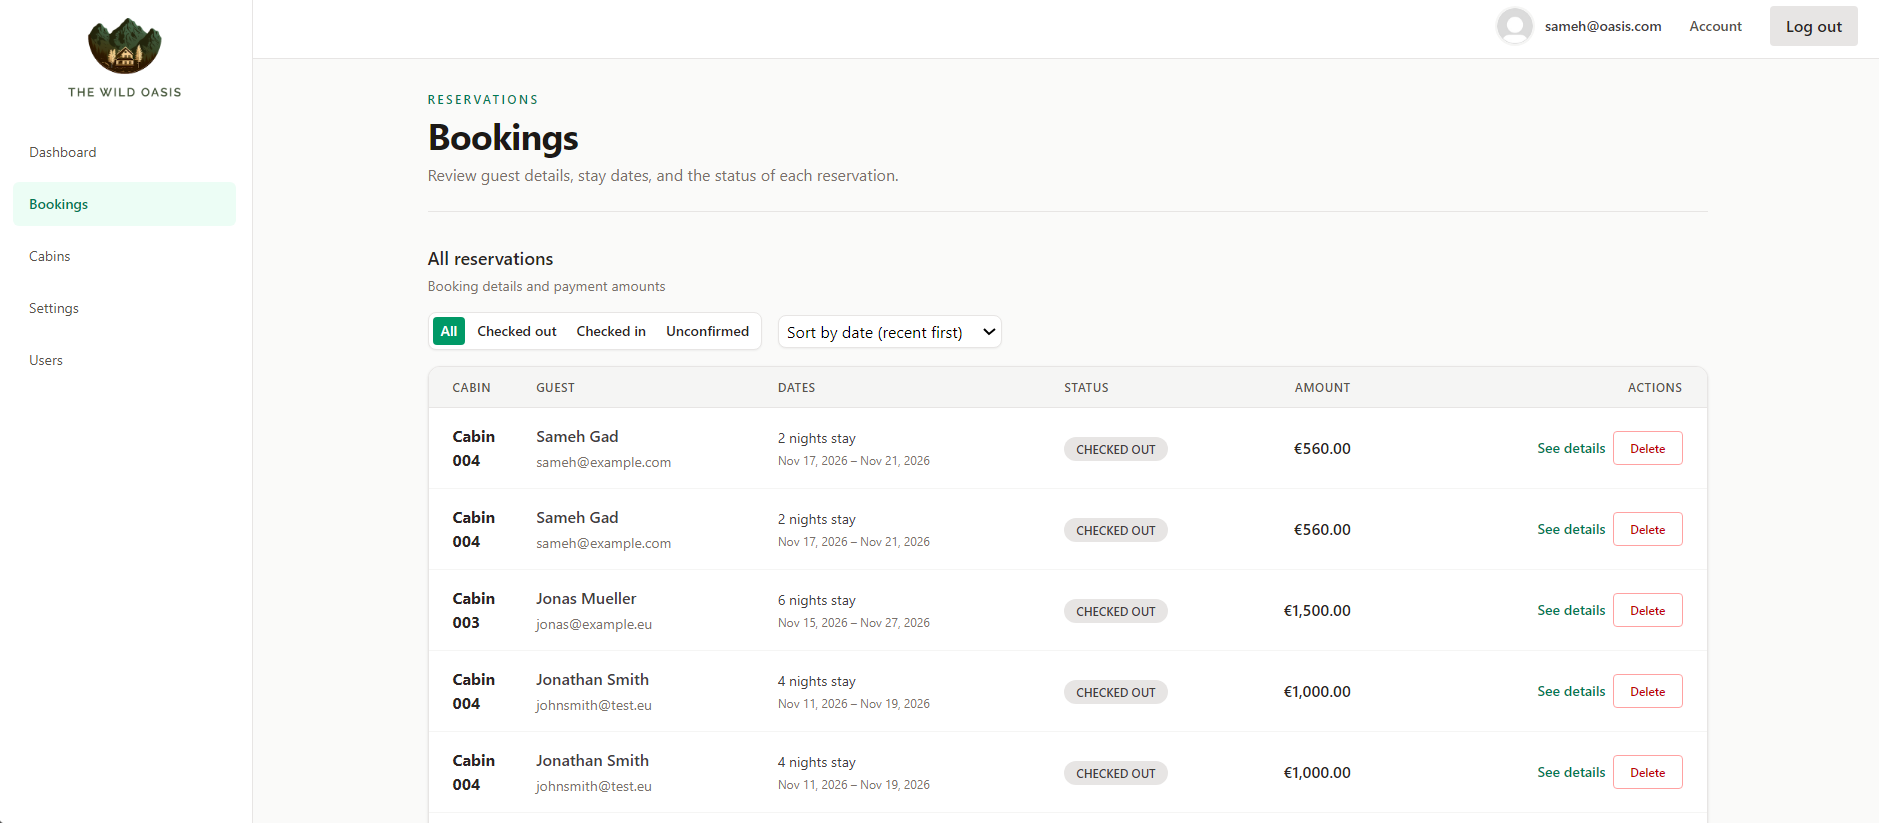
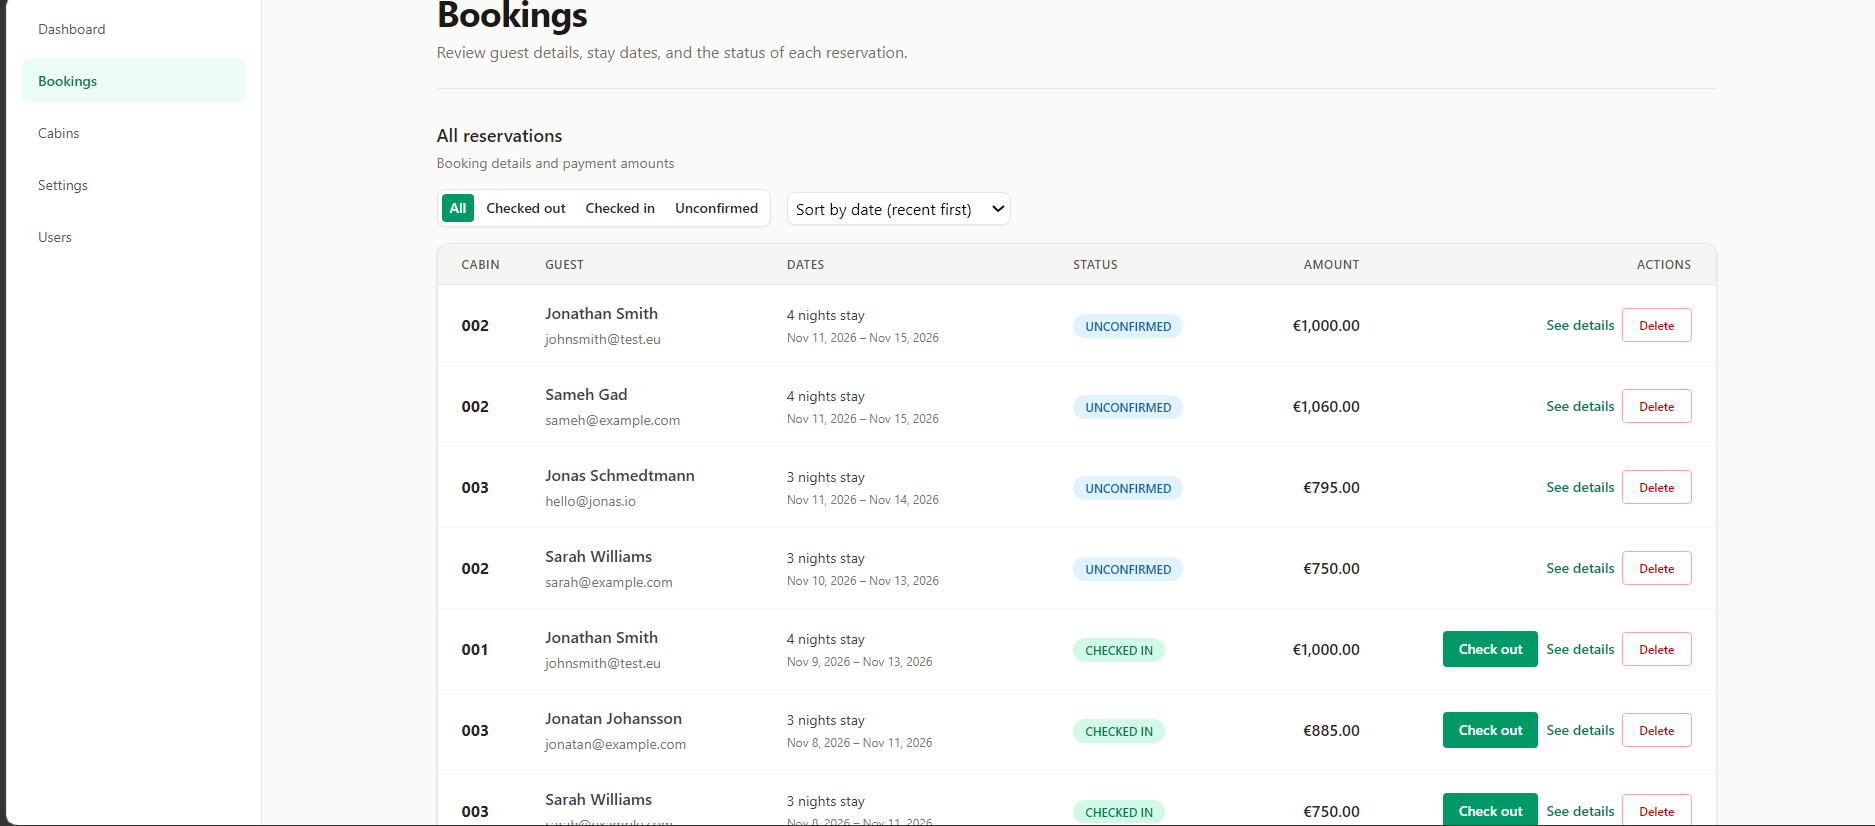
fix: align dashboard local date boundaries and update README

diff --git a/src/features/dashboard/SalesChart.jsx b/src/features/dashboard/SalesChart.jsx
@@ -10,17 +10,27 @@ import {
 } from "recharts";
 import { formatCurrency } from "../../utils/formatCurrency";
 
+function getDateKey(value) {
+    const date = new Date(value);
+
+    if (Number.isNaN(date.getTime())) {
+        return "";
+    }
+
+    return date.toLocaleDateString("en-CA");
+}
+
 export function SalesChart({ bookings = [], numDays, referenceTime }) {
     const data = useMemo(
         () =>
             Array.from({ length: numDays }, (_, i) => {
                 const date = new Date(referenceTime);
+                date.setHours(0, 0, 0, 0);
                 date.setDate(date.getDate() - (numDays - 1 - i));
 
+                const dateKey = getDateKey(date);
                 const sameDayBookings = bookings.filter(
-                    (b) =>
-                        new Date(b.created_at).toDateString() ===
-                        date.toDateString(),
+                    (b) => getDateKey(b.created_at) === dateKey,
                 );
 
                 return {

diff --git a/src/utils/formatDate.js b/src/utils/formatDate.js
@@ -1,5 +1,24 @@
 export function formatDate(date) {
-    return new Date(date).toLocaleDateString("en-US", {
+    if (date === null || date === undefined || date === "") {
+        return "—";
+    }
+
+    if (typeof date === "string" && /^\d{4}-\d{2}-\d{2}$/.test(date)) {
+        const [year, month, day] = date.split("-").map(Number);
+        return new Date(year, month - 1, day).toLocaleDateString("en-US", {
+            day: "numeric",
+            month: "short",
+            year: "numeric",
+        });
+    }
+
+    const parsedDate = new Date(date);
+
+    if (Number.isNaN(parsedDate.getTime())) {
+        return "—";
+    }
+
+    return parsedDate.toLocaleDateString("en-US", {
         day: "numeric",
         month: "short",
         year: "numeric",

diff --git a/src/features/dashboard/useRecentBookings.js b/src/features/dashboard/useRecentBookings.js
@@ -14,12 +14,14 @@ export function useRecentBookings() {
     } = useQuery({
         queryKey: ["recent-bookings", numDays],
         queryFn: async () => {
-            const referenceTime = Date.now();
+            const referenceTime = new Date();
             const queryDate = new Date(referenceTime);
+            queryDate.setHours(0, 0, 0, 0);
             queryDate.setDate(queryDate.getDate() - numDays);
+
             const bookings = await getBookingsAfterDate(queryDate.toISOString());
 
-            return { bookings, referenceTime };
+            return { bookings, referenceTime: referenceTime.toISOString() };
         },
     });
 

diff --git a/src/features/dashboard/useRecentStays.js b/src/features/dashboard/useRecentStays.js
@@ -15,6 +15,7 @@ export function useRecentStays() {
         queryKey: ["stays", numDays],
         queryFn: () => {
             const queryDate = new Date();
+            queryDate.setHours(0, 0, 0, 0);
             queryDate.setDate(queryDate.getDate() - numDays);
             return getStaysAfterDate(queryDate.toISOString());
         },
